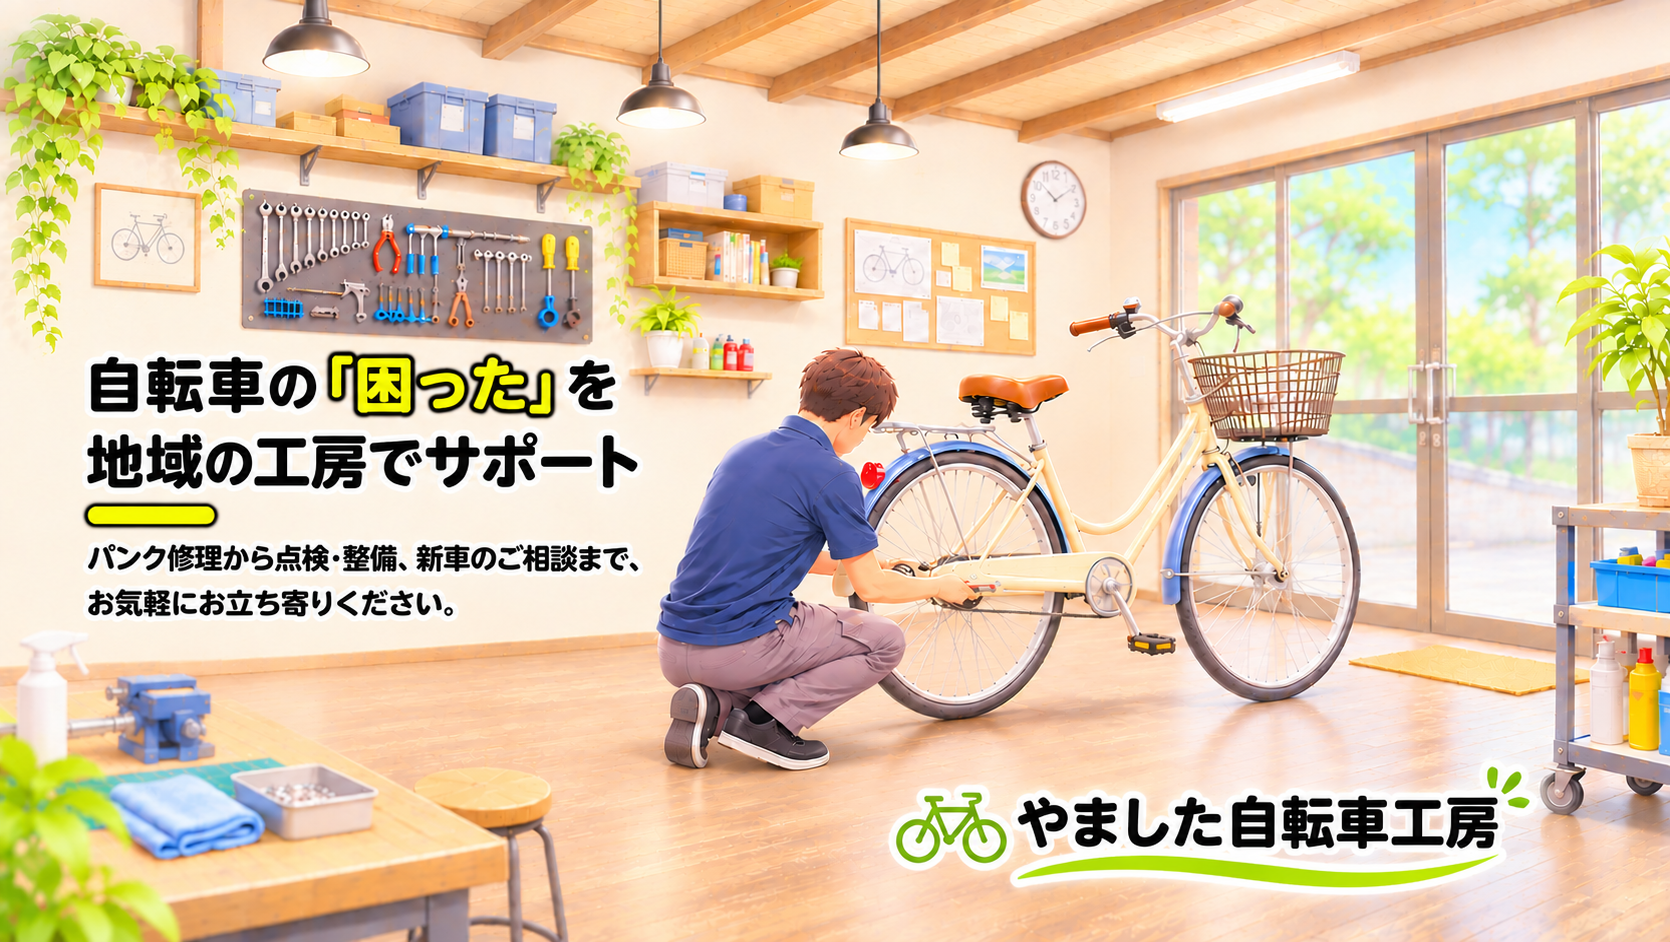
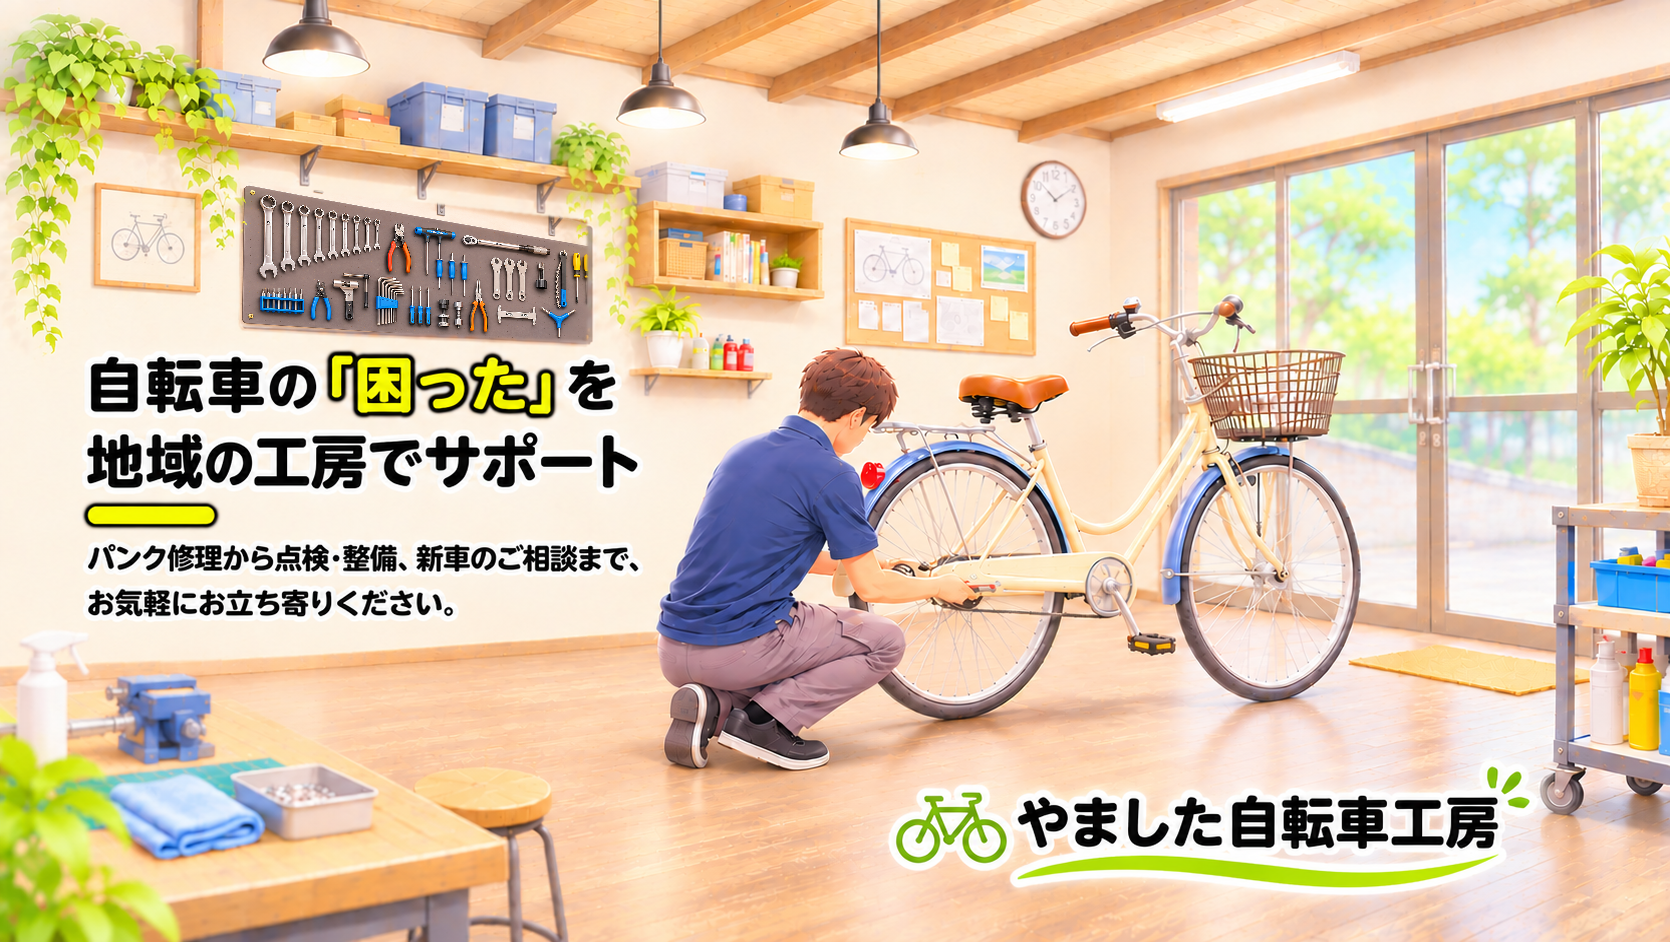
Add files via upload

Changed region(s): [[0.1246, 0.1847, 0.3737, 0.3694]]

diff --git a/index.html b/index.html
@@ -1114,11 +1114,32 @@ body { background:#fffcf6;color:#34483b; }
 
 .news-loading,.news-empty{padding:24px;color:#728173;margin:0;text-align:center}
 .news-more[hidden]{display:none}
+
+/* 2026-11-12: スマホのみWEBショップ案内を縦に約3倍。横長の元バナーは切らず・伸ばさず表示 */
+.webshop-mobile-details{display:none}
+@media (max-width:700px){
+  .webshop-section{
+    display:flex!important;flex-direction:column!important;align-items:stretch!important;
+    width:100%!important;overflow:hidden;background:#f7fbef;
+    border:1px solid #dbeacd;border-radius:12px;padding:0 0 13px!important;
+    box-shadow:0 5px 16px rgba(49,98,44,.07)
+  }
+  .webshop-section .webshop-banner-wide-image{
+    display:block!important;width:100%!important;height:auto!important;
+    object-fit:contain!important;object-position:center!important;box-shadow:none!important;
+    border-radius:0!important;max-width:none!important
+  }
+  .webshop-mobile-details{display:flex;flex-direction:column;align-items:center;text-align:center;
+    gap:7px;padding:12px 18px 4px;min-height:120px;justify-content:center;color:#225337}
+  .webshop-mobile-details strong{font-size:clamp(15px,4.1vw,19px);line-height:1.4}
+  .webshop-mobile-details span{font-size:clamp(12px,3.4vw,14px);font-weight:800;color:#ad5b1f}
+  .webshop-mobile-details small{font-size:11px;line-height:1.55;color:#556e58}
+}
 </style></head><body><header class="masthead"><div class="container mast-inner"><a class="brand" href="#top"><span aria-hidden="true" class="brand-icon"><img alt="" src="logo.png"/></span><span class="brand-wordmark"><strong>やました自転車工房</strong><small>Yamashita Bicycle Workshop</small></span></a><a aria-label="本日の営業予定と営業日カレンダー" class="header-status" href="#calendar"><svg aria-hidden="true" fill="none" height="25" stroke="currentColor" stroke-linecap="round" stroke-linejoin="round" stroke-width="1.8" viewbox="0 0 24 24" width="25"><rect height="16" rx="2" width="18" x="3" y="5"></rect><path d="M7 3v4M17 3v4M3 10h18"></path><path d="m8 15 2 2 5-5"></path></svg><span id="today-status">本日の営業予定を確認しています</span><span class="status-hours" id="today-hours"></span></a></div></header><nav class="nav"><div class="container nav-inner"><a href="#top">⌂ ホーム</a><a href="#news">✦ お知らせ</a><a href="#webshop">🛒 WEBショップ</a><a href="#services">⚒ 修理・整備</a><a href="#sales">♧ 新車販売</a><a href="#prices">¥ 工賃表</a><a href="#calendar">▦ 営業日カレンダー</a><a href="#access">⌖ アクセス</a></div></nav><main><section class="hero" id="top"><img alt="やました自転車工房。明るい工房でクリーム色の自転車を整備するスタッフ。自転車の「困った」を地域の工房でサポート。" class="hero-photo" decoding="async" height="942" loading="eager" src="workshop_top_sharp.png" width="1670"/><div class="container" style="width:100%"><div class="hero-copy"><h1>自転車の<span class="hero-highlight">「困った」</span>を<br/>地域の工房でサポート</h1><div class="accent"></div><p>パンク修理から点検・整備、新車のご相談まで。<br/>お気軽にお立ち寄りください。</p></div></div></section><div class="container"><div class="quick"><a href="#services"><span class="ico">🛠</span><span><b>修理・整備</b><small>パンクから各種調整まで</small></span></a><a href="#sales"><span class="ico">🚲</span><span><b>新車販売</b><small>お取り寄せ可が中心</small></span></a><a href="#services"><span class="ico">☑</span><span><b>点検・メンテナンス</b><small>安全・快適に長く乗るために</small></span></a><a href="#access"><span class="ico">♢</span><span><b>防犯登録</b><small>取扱い準備中</small></span></a></div><section class="services" id="services"><h2 class="heading"><span class="symbol">🛠</span>主なサービス</h2><div class="service-grid"><div class="service-card"><div class="visual"><img alt="チューブにパッチを貼るパンク修理" loading="lazy" src="puncture.jpg"/></div><b>パンク修理</b><small>1か所 900円〜</small></div><div class="service-card"><div class="visual"><img alt="ブレーキレバーを握る様子" loading="lazy" src="brake.jpg"/></div><b>ブレーキ調整</b><small>600円〜</small></div><div class="service-card"><div class="visual"><img alt="青色の一般車の後輪チェーン引き" loading="lazy" src="chain.jpg"/></div><b>チェーン調整</b><small>工賃 500円〜</small></div><div class="service-card" id="sales"><div class="visual"><img alt="新車の一般用自転車" loading="lazy" src="newbike.jpg"/></div><b>新車販売</b><small>お取り寄せ可</small></div></div><p class="note">※料金は税込・部品代別。車種や作業内容により異なります。写真はイメージです。</p></section><section aria-labelledby="news-title" class="news-section" id="news">
 <div class="news-top"><div><p class="news-kicker">INFORMATION</p><h2 class="news-title" id="news-title"><span aria-hidden="true" class="news-mark">✦</span>お知らせ</h2></div><p class="news-subtitle">お店の準備状況や営業情報をお届けします</p></div>
 <div class="news-panel" role="list" id="news-list"><p class="news-loading">お知らせを読み込んでいます…</p></div>
 <div class="news-actions"><button aria-controls="news-list" aria-expanded="false" class="news-more" id="news-more" type="button" hidden>お知らせをもっと見る <span aria-hidden="true">⌄</span></button></div>
-</section><section aria-label="WEBショップのご案内" class="webshop-section" id="webshop"><img alt="やました自転車工房WEBショップ。自転車（完成品）はすぐ乗れます。パーツ類も販売。高知県下の指定地域限定で店舗より直接お届けするシステムあり。その他の地域は配送業者がお届け。" class="webshop-banner-wide-image" height="380" loading="lazy" src="webshop_banner_wide.png" width="2172"/></section><div class="columns"><section aria-labelledby="about-title" class="about"><h2 class="heading about-heading" id="about-title"><span class="symbol">▏</span>当店について</h2><p class="intro">やました自転車工房は、<br/>高知市高須の地域に根ざした <strong>自転車の修理・販売店</strong> です。</p><div class="about-points"><p><span aria-hidden="true" class="check-mark">✓</span><span>予約は不要です。お気軽にご来店ください。</span></p><p><span aria-hidden="true" class="check-mark">✓</span><span>お客様の承諾なく修理をすることはありません。</span></p><p><span aria-hidden="true" class="check-mark">✓</span><span>わかりやすい説明を心掛けています。</span></p></div><p class="credentials"><span aria-hidden="true">⚒</span><span>自転車安全整備士・自転車技士が対応します。</span></p></section><section aria-labelledby="hours-title" class="hours-section"><h2 class="heading hours-heading" id="hours-title"><span aria-hidden="true" class="hours-rule"></span><span aria-hidden="true" class="clock-symbol">◷</span><span>営業時間</span><span aria-hidden="true" class="hours-rule"></span></h2><div class="hour-card day"><b><span aria-hidden="true" class="hours-icon">☀</span> 昼間営業</b><strong>10:00 ～ 17:00</strong></div><div class="hour-card night"><b><span aria-hidden="true" class="hours-icon">☾</span> 夜間営業</b><strong>18:00 ～ 21:00</strong></div><p class="note hours-notes"><span>※土日祝日も休業となる場合があります。</span><span>※実際の営業日はカレンダーをご確認ください。</span></p></section><section class="calendar-section" id="calendar"><h2 class="heading"><span class="symbol">▦</span>営業日カレンダー</h2><div class="calendar-box"><div class="cal-top"><button aria-label="前月" id="prev">‹</button><b id="month-label"></b><button aria-label="翌月" id="next">›</button></div><div class="cal-grid" id="cal-grid"></div><div class="legend"><span>☀ 昼間 10:00〜17:00</span><span>🌙 夜間 18:00〜21:00</span><span>− 休業</span><span>□ 未設定</span></div><div class="cal-detail" id="cal-detail">日付を選ぶと営業時間を確認できます</div></div></section></div></div><div class="bottom"><div class="container bottom-grid"><section id="prices"><h2>工賃のご案内</h2><p>パンク修理 900円（1か所目）／簡易点検 800円／空気入れ 無料。<br/>修理前に状態と費用を説明します。</p><p class="note">掲載内容は開業準備中の案内です。</p></section><section id="access"><h2>店舗案内</h2><p>高知県高知市高須<br/>駐車場：軽自動車1台分<br/>予約不要・来店順で対応</p><p class="note">詳細住所と電話番号は開業に合わせて公開します。</p></section></div></div></main><footer class="footer">© やました自転車工房　｜　高知市高須</footer><script>
+</section><section aria-label="WEBショップのご案内" class="webshop-section" id="webshop"><img alt="やました自転車工房WEBショップ。自転車（完成品）はすぐ乗れます。パーツ類も販売。高知県下の指定地域限定で店舗より直接お届けするシステムあり。その他の地域は配送業者がお届け。" class="webshop-banner-wide-image" height="380" loading="lazy" src="webshop_banner_wide.png" width="2172"/><div class="webshop-mobile-details" aria-label="WEBショップのご案内"><strong>完成車・パーツもWEBでご案内</strong><span>完成車はすぐ乗れる状態でお届けします</span><small>高知県下の指定地域は店舗より直接お届け。その他の地域は配送業者がお届けします。</small></div></section><div class="columns"><section aria-labelledby="about-title" class="about"><h2 class="heading about-heading" id="about-title"><span class="symbol">▏</span>当店について</h2><p class="intro">やました自転車工房は、<br/>高知市高須の地域に根ざした <strong>自転車の修理・販売店</strong> です。</p><div class="about-points"><p><span aria-hidden="true" class="check-mark">✓</span><span>予約は不要です。お気軽にご来店ください。</span></p><p><span aria-hidden="true" class="check-mark">✓</span><span>お客様の承諾なく修理をすることはありません。</span></p><p><span aria-hidden="true" class="check-mark">✓</span><span>わかりやすい説明を心掛けています。</span></p></div><p class="credentials"><span aria-hidden="true">⚒</span><span>自転車安全整備士・自転車技士が対応します。</span></p></section><section aria-labelledby="hours-title" class="hours-section"><h2 class="heading hours-heading" id="hours-title"><span aria-hidden="true" class="hours-rule"></span><span aria-hidden="true" class="clock-symbol">◷</span><span>営業時間</span><span aria-hidden="true" class="hours-rule"></span></h2><div class="hour-card day"><b><span aria-hidden="true" class="hours-icon">☀</span> 昼間営業</b><strong>10:00 ～ 17:00</strong></div><div class="hour-card night"><b><span aria-hidden="true" class="hours-icon">☾</span> 夜間営業</b><strong>18:00 ～ 21:00</strong></div><p class="note hours-notes"><span>※土日祝日も休業となる場合があります。</span><span>※実際の営業日はカレンダーをご確認ください。</span></p></section><section class="calendar-section" id="calendar"><h2 class="heading"><span class="symbol">▦</span>営業日カレンダー</h2><div class="calendar-box"><div class="cal-top"><button aria-label="前月" id="prev">‹</button><b id="month-label"></b><button aria-label="翌月" id="next">›</button></div><div class="cal-grid" id="cal-grid"></div><div class="legend"><span>☀ 昼間 10:00〜17:00</span><span>🌙 夜間 18:00〜21:00</span><span>− 休業</span><span>□ 未設定</span></div><div class="cal-detail" id="cal-detail">日付を選ぶと営業時間を確認できます</div></div></section></div></div><div class="bottom"><div class="container bottom-grid"><section id="prices"><h2>工賃のご案内</h2><p>パンク修理 900円（1か所目）／簡易点検 800円／空気入れ 無料。<br/>修理前に状態と費用を説明します。</p><p class="note">掲載内容は開業準備中の案内です。</p></section><section id="access"><h2>店舗案内</h2><p>高知県高知市高須<br/>駐車場：軽自動車1台分<br/>予約不要・来店順で対応</p><p class="note">詳細住所と電話番号は開業に合わせて公開します。</p></section></div></div></main><footer class="footer">© やました自転車工房　｜　高知市高須</footer><script>
 (()=>{'use strict';let schedule={};const pad=n=>String(n).padStart(2,'0');const tokyo=()=>new Intl.DateTimeFormat('en-CA',{timeZone:'Asia/Tokyo',year:'numeric',month:'2-digit',day:'2-digit',hour:'2-digit',minute:'2-digit',hourCycle:'h23'}).formatToParts(new Date()).reduce((o,p)=>(o[p.type]=p.value,o),{});const t=tokyo();let y=+t.year,m=+t.month;const iso=(a,b,c)=>`${a}-${pad(b)}-${pad(c)}`;const labels={night:'18:00〜21:00',day:'10:00〜17:00',closed:'休業日'};function refresh(){const t=tokyo(),v=schedule[iso(t.year,t.month,t.day)],now=+t.hour*60+(+t.minute),st=document.getElementById('today-status'),hours=document.getElementById('today-hours');if(!v){st.textContent='本日の営業予定は未設定です';hours.textContent='';return}if(v==='closed'){st.textContent='本日はお休みです';hours.textContent='';return}const start=v==='day'?600:1080,end=v==='day'?1020:1260;st.textContent=now<start?'本日は営業日です（営業前）':now<end?'● ただいま営業中':'本日の営業は終了しました';hours.textContent=labels[v]}
 const sun=`<svg class="cal-symbol" viewBox="0 0 64 64" aria-hidden="true"><g stroke="#f59e0b" stroke-width="5" stroke-linecap="round"><path d="M32 3V10M32 54V61M3 32H10M54 32H61M11.5 11.5L16.5 16.5M47.5 47.5L52.5 52.5M52.5 11.5L47.5 16.5M16.5 47.5L11.5 52.5"/></g><circle cx="32" cy="32" r="18" fill="#f59e0b"/></svg>`;const moon=`<svg class="cal-symbol" viewBox="0 0 64 64" aria-hidden="true"><path d="M45 6C26 10 18 25 23 40C27 51 38 56 52 52C44 60 31 63 20 57C6 50 1 32 9 18C16 6 31 1 45 6Z" fill="#fde68a"/></svg>`;const off=`<svg class="cal-symbol" viewBox="0 0 64 64" aria-hidden="true"><circle cx="32" cy="32" r="24" fill="#6b7280"/><path d="M18 32H46" stroke="white" stroke-width="6" stroke-linecap="round"/></svg>`;
 
